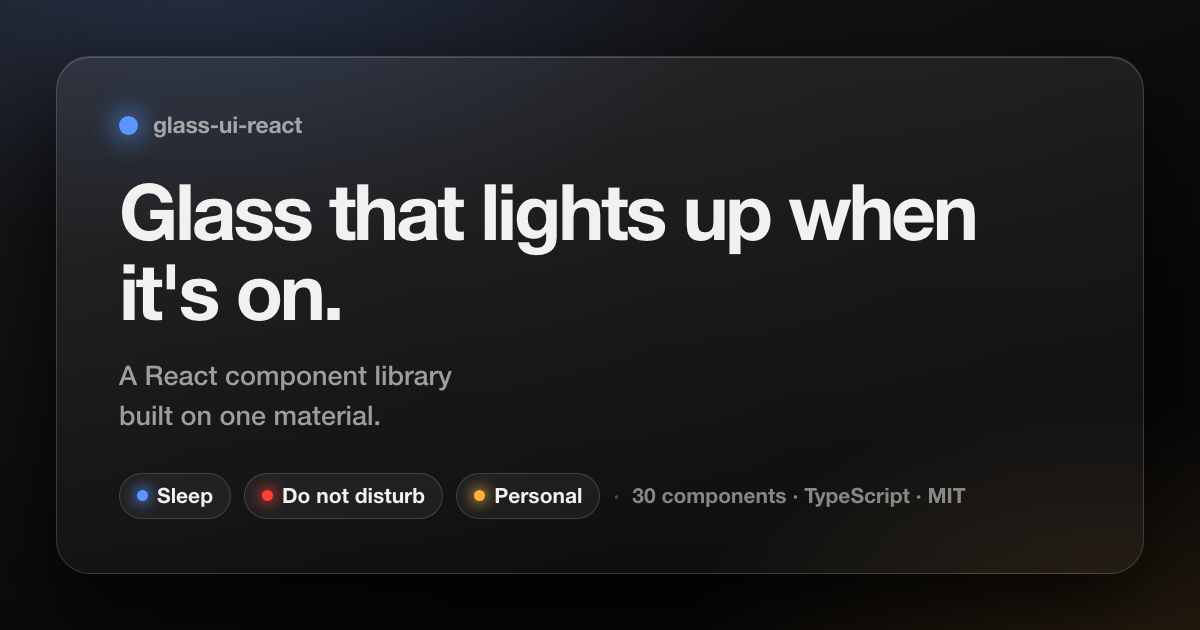
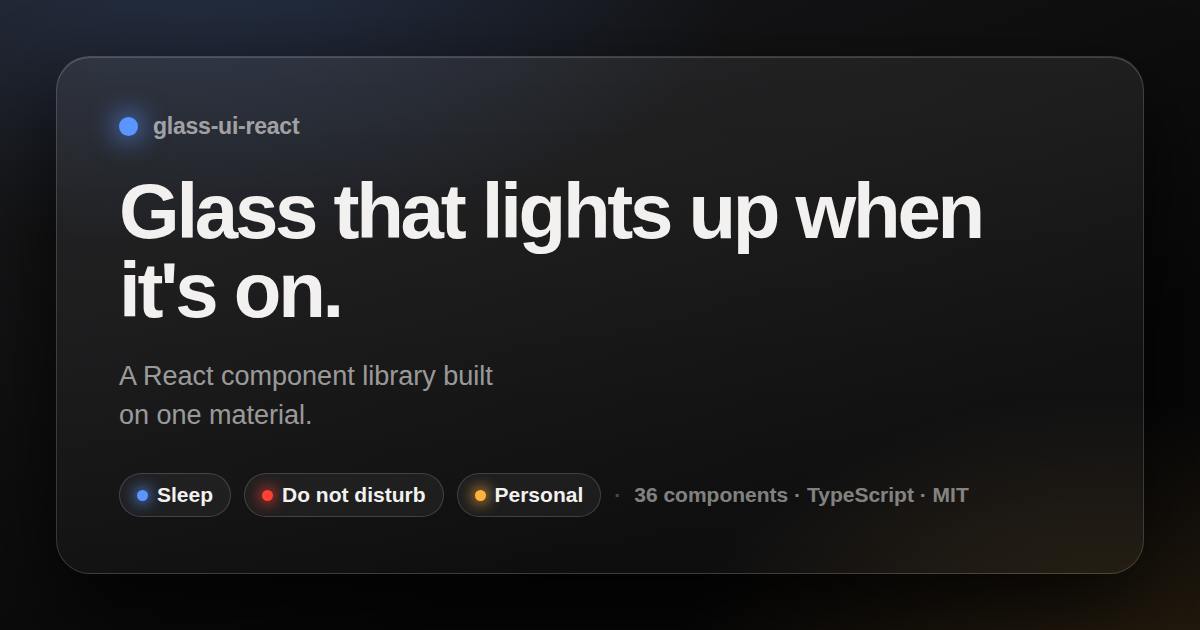
Prepare the package for its first npm publish (#23)
* chore(release): prepare the package for its first publish

Three cleanups ahead of publishing to npm, none of which change the
library's behaviour:

- Delete .npmignore. The package.json "files" field already decides what
  ships, and npm ignores .npmignore entirely when both exist, so the file
  was dead weight that invited edits with no effect.
- Stop emitting sourcemaps. They accounted for 353kB of the 566kB
  unpacked tarball without helping anyone debugging their own app. The
  tarball drops from 117.4kB to 45.0kB.
- Add CHANGELOG.md, in Keep a Changelog format, and ship it with the
  package so the history is readable from the registry as well as here.

* docs: correct the component count from 30 to 36

src/index.ts exports 36 components, once useToast, useTheme, cx and
useControllableState are set aside as hooks and utilities. The README's
own component table already listed all 36; only the prose around it, the
documentation page and the social card still claimed 30.

Updates the count in the README, in docs/index.html (meta description,
og:description, og:image:alt, twitter:description, JSON-LD, the version
line, the body copy and the footer) and in the llms.txt blurb inside
scripts/build-docs.mjs.

docs/og.png had the old number baked into it as pixels, so it is
re-rasterised from scripts/og-card.html, which is kept in the repository
for exactly this. Its header comment only gave the macOS Chrome path;
[…]

diff --git a/docs/index.html b/docs/index.html
@@ -4,7 +4,7 @@
 <meta charset="utf-8" />
 <meta name="viewport" content="width=device-width, initial-scale=1" />
 <title>glass-ui-react — React glass UI component library docs</title>
-<meta name="description" content="Documentation for glass-ui-react, a React component library of 30 translucent glass components — every component, prop and type, with live previews." />
+<meta name="description" content="Documentation for glass-ui-react, a React component library of 36 translucent glass components — every component, prop and type, with live previews." />
 
 <!-- One page, one address. Without the canonical, the ?query and #anchor
      variants people link to each get indexed as a separate page. -->
@@ -18,14 +18,14 @@
 <meta property="og:site_name" content="glass-ui-react" />
 <meta property="og:url" content="https://pierrejochem.github.io/glass-ui-react/" />
 <meta property="og:title" content="glass-ui-react — React glass UI component library" />
-<meta property="og:description" content="30 translucent glass components for React. Every component, prop and type, with live previews." />
+<meta property="og:description" content="36 translucent glass components for React. Every component, prop and type, with live previews." />
 <meta property="og:image" content="https://pierrejochem.github.io/glass-ui-react/og.png" />
 <meta property="og:image:width" content="1200" />
 <meta property="og:image:height" content="630" />
-<meta property="og:image:alt" content="glass-ui-react — glass that lights up when it's on. 30 components, TypeScript, MIT." />
+<meta property="og:image:alt" content="glass-ui-react — glass that lights up when it's on. 36 components, TypeScript, MIT." />
 <meta name="twitter:card" content="summary_large_image" />
 <meta name="twitter:title" content="glass-ui-react — React glass UI component library" />
-<meta name="twitter:description" content="30 translucent glass components for React. Every component, prop and type, with live previews." />
+<meta name="twitter:description" content="36 translucent glass components for React. Every component, prop and type, with live previews." />
 <meta name="twitter:image" content="https://pierrejochem.github.io/glass-ui-react/og.png" />
 
 <!-- Machine-readable version of the same facts, for search and answer engines -->
@@ -34,7 +34,7 @@
   "@context": "https://schema.org",
   "@type": "SoftwareSourceCode",
   "name": "glass-ui-react",
-  "description": "A React component library built on one material: translucent glass that lights up when it's on. 30 accessible components sharing a single visual rule.",
+  "description": "A React component library built on one material: translucent glass that lights up when it's on. 36 accessible components sharing a single visual rule.",
   "url": "https://pierrejochem.github.io/glass-ui-react/",
   "image": "https://pierrejochem.github.io/glass-ui-react/og.png",
   "codeRepository": "https://github.com/pierrejochem/glass-ui-react",
@@ -238,7 +238,7 @@ body{font-family:"Manrope",ui-sans-serif,system-ui,sans-serif}
 <!-- ============================ sidebar ============================ -->
 <nav class="d-nav" id="dNav" aria-label="Documentation">
   <p class="d-brand"><span class="d-dot"></span><b>glass-ui-react</b></p>
-  <p class="d-ver">v0.1.0 · 30 components</p>
+  <p class="d-ver">v0.1.0 · 36 components</p>
 
   <p class="d-navgroup">Start</p>
   <a href="#install">Installation</a>
@@ -318,7 +318,7 @@ body{font-family:"Manrope",ui-sans-serif,system-ui,sans-serif}
       <p class="d-sub">
         A React component library built on one material: translucent glass that lights up
         when it's on. Things you press are raised; things you pour text into are recessed.
-        That one rule is what makes 30 components read as a single object.
+        That one rule is what makes 36 components read as a single object.
       </p>
     </div>
     <div class="d-toolbar">
@@ -2264,7 +2264,7 @@ body{font-family:"Manrope",ui-sans-serif,system-ui,sans-serif}
   </section>
 
   <footer style="margin-top:80px;padding-top:26px;border-top:1px solid var(--hair);font-size:13px;color:var(--ink-soft)">
-    <p style="margin:0 0 6px"><b style="color:var(--ink)">glass-ui-react</b> · MIT · 30 components, one stylesheet.</p>
+    <p style="margin:0 0 6px"><b style="color:var(--ink)">glass-ui-react</b> · MIT · 36 components, one stylesheet.</p>
     <p style="margin:0">Generated from the source in <code>src/</code>. Previews use the library's own CSS, so this page is always as current as the stylesheet beside it.</p>
   </footer>
 

diff --git a/scripts/og-card.html b/scripts/og-card.html
@@ -5,6 +5,15 @@
        --screenshot=docs/og.png --window-size=1200,630 \
        file://$PWD/scripts/og-card.html
 
+     On Linux the binary is on PATH, so the same flags apply:
+     google-chrome \
+       --headless --disable-gpu --hide-scrollbars \
+       --screenshot=docs/og.png --window-size=1200,630 \
+       file://$PWD/scripts/og-card.html
+
+     Run it from the repository root either way: --screenshot writes to a
+     path relative to the working directory.
+
      Kept in the repo so the card can be regenerated when the tagline or the
      component count changes, rather than being an opaque binary nobody can edit.
      Uses system fonts on purpose: no network fetch during rasterisation. -->
@@ -91,7 +100,7 @@ p{
     <span class="chip"><i style="background:#FF4033;box-shadow:0 0 14px 3px rgba(255,64,51,.7)"></i>Do not disturb</span>
     <span class="chip"><i style="background:#FFB23D;box-shadow:0 0 14px 3px rgba(255,178,61,.7)"></i>Personal</span>
     <span class="sep">·</span>
-    <span>30 components · TypeScript · MIT</span>
+    <span>36 components · TypeScript · MIT</span>
   </div>
 </div>
 </body>

diff --git a/tsup.config.ts b/tsup.config.ts
@@ -4,7 +4,7 @@ export default defineConfig({
   entry: ['src/index.ts', 'src/styles/liquid.css'],
   format: ['esm', 'cjs'],
   dts: true,
-  sourcemap: true,
+  sourcemap: false,
   clean: true,
   treeshake: true,
   external: ['react', 'react-dom'],

diff --git a/CHANGELOG.md b/CHANGELOG.md
@@ -1,0 +1,34 @@
+# Changelog
+
+All notable changes to this project are documented in this file.
+
+The format is based on [Keep a Changelog](https://keepachangelog.com/en/1.1.0/),
+and this project adheres to [Semantic Versioning](https://semver.org/spec/v2.0.0.html).
+
+## [Unreleased]
+
+## [0.1.0] - 2026-09-27
+
+First public release.
+
+### Added
+
+- Components sharing one glass material: pressable surfaces are raised, text
+  inputs are recessed, and every surface blurs what sits behind it.
+  - **Actions** — `Button`, `IconButton`, `Toggle`, `ToggleGroup`
+  - **Selection** — `Switch`, `Checkbox`, `RadioGroup`, `Segmented`, `Select`, `Slider`
+  - **Text** — `Input`, `Textarea`
+  - **Disclosure** — `Tabs`, `Accordion`, `Collapsible`
+  - **Overlays** — `Popover`, `DropdownMenu`, `Tooltip`, `HoverCard`, `Dialog`,
+    `AlertDialog`, `ToastProvider` / `useToast`
+  - **Display** — `Card`, `Badge`, `Avatar`, `AvatarStack`, `AspectRatio`,
+    `Separator`, `ScrollArea`, `Progress`
+  - **Data** — `DataTable`, `DatePicker`
+  - **Signature** — `ModeToggle`, `ModeRack`
+  - **Theme** — `ThemeProvider` / `useTheme`, `AmbientLight`
+- Controlled and uncontrolled modes for every stateful component.
+- Stylesheet published separately as `glass-ui-react/styles.css`.
+- ESM and CommonJS builds with bundled TypeScript declarations.
+
+[Unreleased]: https://github.com/pierrejochem/glass-ui-react/compare/v0.1.0...HEAD
+[0.1.0]: https://github.com/pierrejochem/glass-ui-react/releases/tag/v0.1.0

diff --git a/README.md b/README.md
@@ -3,7 +3,7 @@
 A React component library built on one material: translucent glass that lights up when it's on.
 
 Every surface is see-through and blurs what's behind it. Things you press are raised;
-things you pour text into are recessed. That one rule is what makes 30 components read
+things you pour text into are recessed. That one rule is what makes 36 components read
 as a single object rather than a pile of unrelated shapes.
 
 **[Read the docs →](https://pierrejochem.github.io/glass-ui-react/)** — every component, prop and
